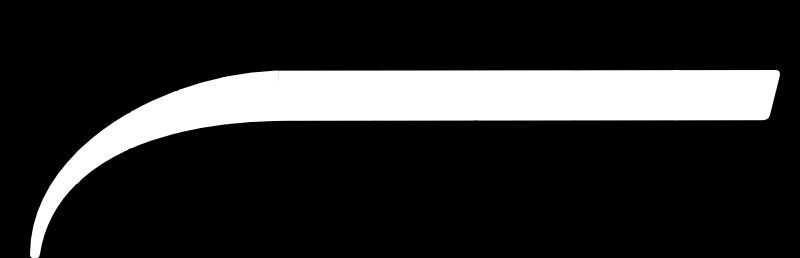
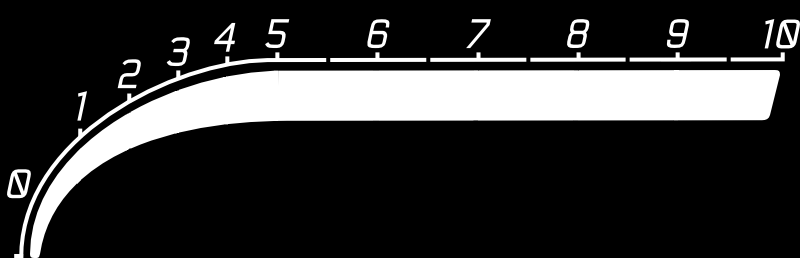
Further Updates
Reduced number of PNG masks. Updated fade ins, various code cleanup (Need to do more ternary operators now that I know you can do this with QML

diff --git a/Taikyu.qml b/Taikyu.qml
@@ -272,18 +272,32 @@ Item {
         border.width: 0
         z: 0
     }
-    Rectangle{
+    Rectangle {
         id: rpm_thing
-        x:0; y:70; z:4
-        color: if(root.rpm < 7500) {
-                interpolateColor(root.rpm, 4500, 5000, !root.sidelight?root.white_color:night_light_color, !root.sidelight?root.sweetspot_color:root.nightlight_orange)
-                }
-            else{
-                interpolateColor(root.rpm, 7500, 8000, !root.sidelight?root.sweetspot_color:root.nightlight_orange, !root.sidelight? root.warning_red:root.nightlight_pink)
-            }
+        x: 0
+        y: 70
+        z: 4
         height: 188
-        width: if(root.rpm <= 5000){30 + (root.rpm * 0.049)} else{
-            (root.rpm * 0.1) - 224
+        width: root.rpm <= 5000 ? 30 + (root.rpm * 0.049) : (root.rpm * 0.1) - 224
+        property color currentColor: root.rpm < 7500 ? 
+            interpolateColor(root.rpm, 4500, 5000, 
+                !root.sidelight ? root.white_color : night_light_color, 
+                !root.sidelight ? root.sweetspot_color : root.nightlight_orange) :
+            interpolateColor(root.rpm, 7500, 8000, 
+                !root.sidelight ? root.sweetspot_color : root.nightlight_orange, 
+                !root.sidelight ? root.warning_red : root.nightlight_pink)
+        color: currentColor
+        Timer {
+            interval: 50 // 20 Hz
+            running: true
+            repeat: true
+            onTriggered: rpm_thing.currentColor = root.rpm < 7500 ? 
+                interpolateColor(root.rpm, 4500, 5000, 
+                    !root.sidelight ? root.white_color : night_light_color, 
+                    !root.sidelight ? root.sweetspot_color : root.nightlight_orange) :
+                interpolateColor(root.rpm, 7500, 8000, 
+                    !root.sidelight ? root.sweetspot_color : root.nightlight_orange, 
+                    !root.sidelight ? root.warning_red : root.nightlight_pink)
         }
     }
     Item{
@@ -291,7 +305,7 @@ Item {
         x: if(root.rpm <= 5000){28 + (root.rpm * 0.049)} else{
             (root.rpm * 0.1) - 225
         }
-        opacity: 1
+        opacity: 0
         y:70;z:9
         Rectangle{
             height: 188; width: 4
@@ -301,7 +315,8 @@ Item {
     Image{
         x:0; y:0; z: 10
         id: rpm_line_mask
-        source: './taikyu/tach-marker-mask.png';
+        source: !root.sidelight ? './taikyu/tach-marker-mask.png' : './taikyu/indiglo/tach-marker-mask.png'
+        opacity:0
     } 
     Image{
         id: tach_mask 
@@ -320,12 +335,7 @@ Item {
         source: './taikyu/red-zone.png'
     }
 
-    Image{
-        id: tach_marker
-        x: 6; y: 20; z: 11
-        source: if(!root.sidelight) './taikyu/tach-markers.png'; else './taikyu/indiglo/tach-markers.png'
-        opacity: 0;
-    }
+    
     Timer{
         interval:0; running:root.ignition; repeat: false
         onTriggered: first_step.start()
@@ -344,8 +354,9 @@ Item {
     ParallelAnimation{
         id: second_step
         NumberAnimation{
-                target: tach_marker; property: "opacity"; from: 0.00; to: 1.00; duration: 1000
+                target: rpm_line_mask; property: "opacity"; from: 0.00; to: 1.00; duration: 1000
             }
+        
         NumberAnimation{
             target: speed_text; property: "opacity"; from: 0.00; to: 1.00; duration: 1000;
         }
@@ -381,6 +392,9 @@ Item {
         NumberAnimation{
             target: fuel_level_display; property: "opacity"; from: 0.00; to: 1.00; duration: 1000
         }
+        NumberAnimation{
+                target: rpm_line; property: "opacity"; from: 0.00; to: 1.00; duration: 1000
+            }
     }
     Timer{
         interval: 2000; running: root.ignition; repeat: false
